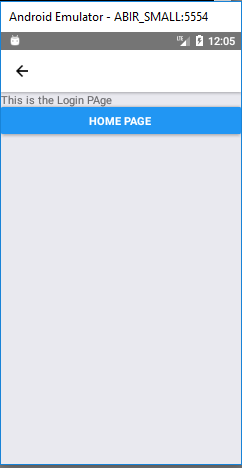
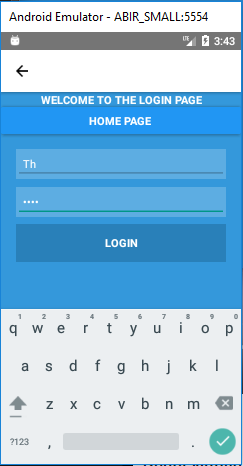
LOGIN PAGE ADDED

diff --git a/Screens/LoginForm.js b/Screens/LoginForm.js
@@ -1,0 +1,56 @@
+import React,{Component} from 'react';
+import {
+  Platform,
+  StyleSheet,
+  Text,
+  View,
+  Button,
+  TextInput,
+  TouchableOpacity
+} from 'react-native';
+class LoginForm extends Component{
+	render(){
+		return (
+			<View style={styles.container}>
+			<TextInput
+			placeholder="USERNAME OR EMAIL"
+			style={styles.input}
+			/>
+			<TextInput 
+			placeholder="PASSWORD"
+			secureTextEntry
+			style={styles.input}
+			/>
+			<TouchableOpacity style={styles.buttonContainer}>
+				<Text style={styles.buttonText}>LOGIN</Text>
+			</TouchableOpacity>
+			</View>
+			);
+	}
+}
+const styles = StyleSheet.create({
+	container:{
+		// flex:1,
+		// backgroundColor:'#3498db'
+		padding : 20
+
+	},
+	input:{
+		height: 40,
+		backgroundColor : 'rgba(255,255,255,0.2)',
+		marginBottom:10,
+		color:'#FFF',
+		paddingHorizontal:10
+	},
+	buttonContainer:{
+		backgroundColor : '#2980b9',
+		paddingVertical:15
+	},
+	buttonText:{
+		textAlign:'center',
+		color:'#FFF',
+		fontWeight:'700'
+	}
+	
+});
+export default LoginForm;

diff --git a/Screens/HomeScreen.js b/Screens/HomeScreen.js
@@ -9,12 +9,29 @@ import {
 class HomeScreen extends Component{
 	render(){
 		return (
-			<View>
-			<Text>This is the Home Screen</Text>
-			<Button onPress={() => this.props.navigation.navigate('LoginScreen')} title="LOGIN PAGE "/>
-			<Button onPress={() => this.props.navigation.navigate('RegistrationScreen')} title="REGISTRATION PAGE "/>
+			<View style={styles.container}>
+			<Text style={styles.welcome}>WELCOME TO THE LANDING PAGE</Text>
+			<Button style={styles.button} onPress={() => this.props.navigation.navigate('LoginScreen')} title="LOGIN PAGE "/>
+			<Button style={styles.button} onPress={() => this.props.navigation.navigate('RegistrationScreen')} title="REGISTRATION PAGE "/>
 			</View>
 			);
 	}
 }
+const styles = StyleSheet.create({
+	container:{
+		flex:1,
+		alignItems:'center',
+		justifyContent:'center'
+
+	},
+	welcome:{
+		textAlign:'center',
+		fontWeight:'700'
+	},
+	button:{
+		marginBottom:10,
+		paddingVertical:15
+	}
+
+});
 export default HomeScreen;

diff --git a/Screens/LoginScreen.js b/Screens/LoginScreen.js
@@ -6,15 +6,30 @@ import {
   View,
   Button
 } from 'react-native';
+import LoginForm from './LoginForm';
 class LoginScreen extends Component{
 	render(){
 		return (
-			<View>
-			<Text>This is the Login PAge</Text>
+			<View style={styles.container}>
+			<Text style={styles.welcome}>WELCOME TO THE LOGIN PAGE</Text>
 			<Button onPress={() => this.props.navigation.navigate('HomeScreen')} title="HOME PAGE "/>
-			
+			<View style={styles.formContainer}>
+				<LoginForm/>
+			</View>
 			</View>
 			);
 	}
 }
+const styles = StyleSheet.create({
+	container:{
+		flex:1,
+		backgroundColor:'#3498db'
+
+	},
+	welcome:{
+		textAlign:'center',
+		color:'#FFF',
+		fontWeight:'700'
+	}
+});
 export default LoginScreen;
